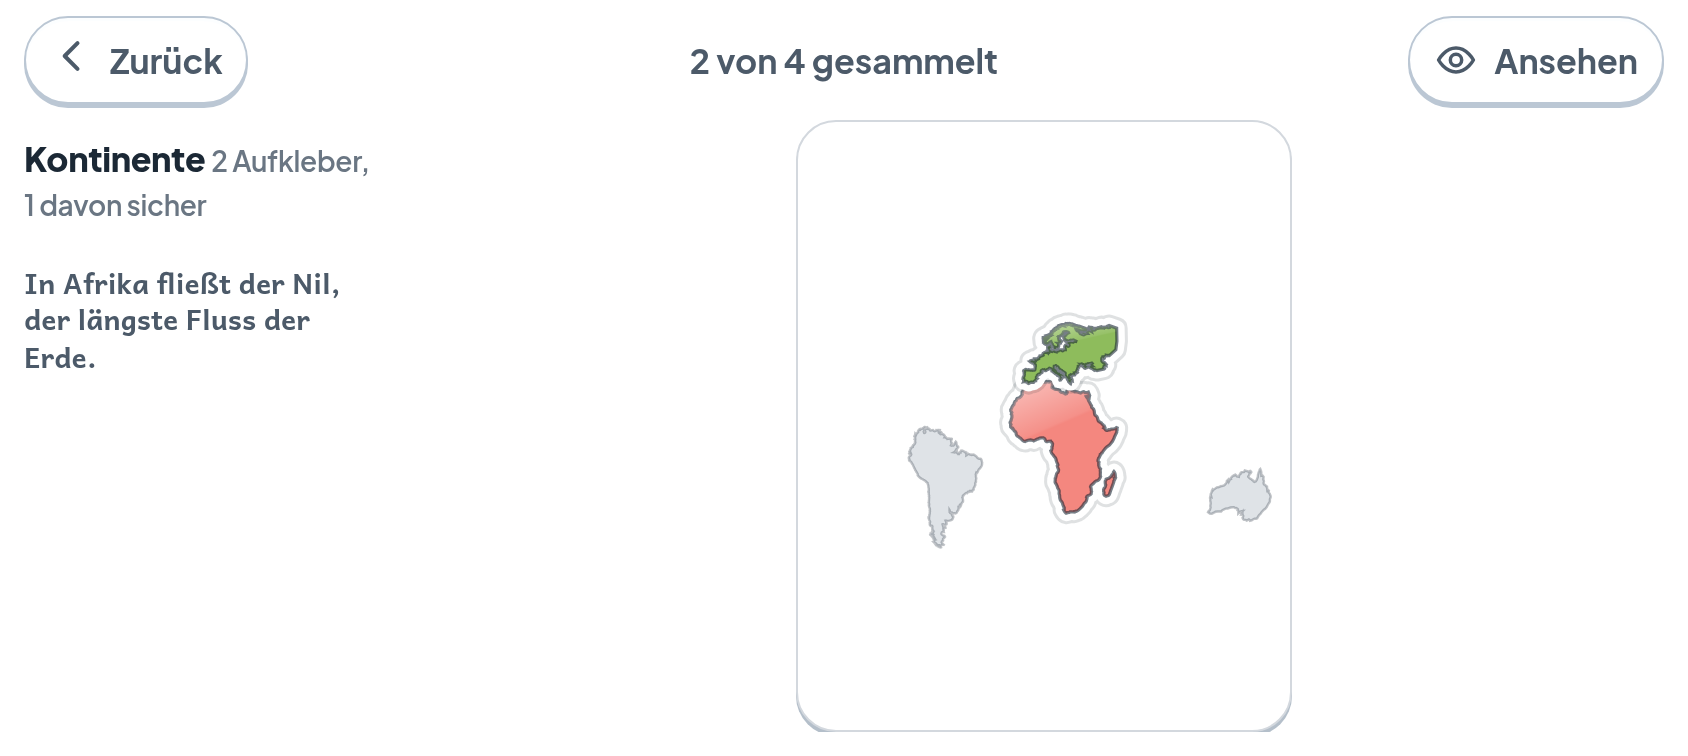
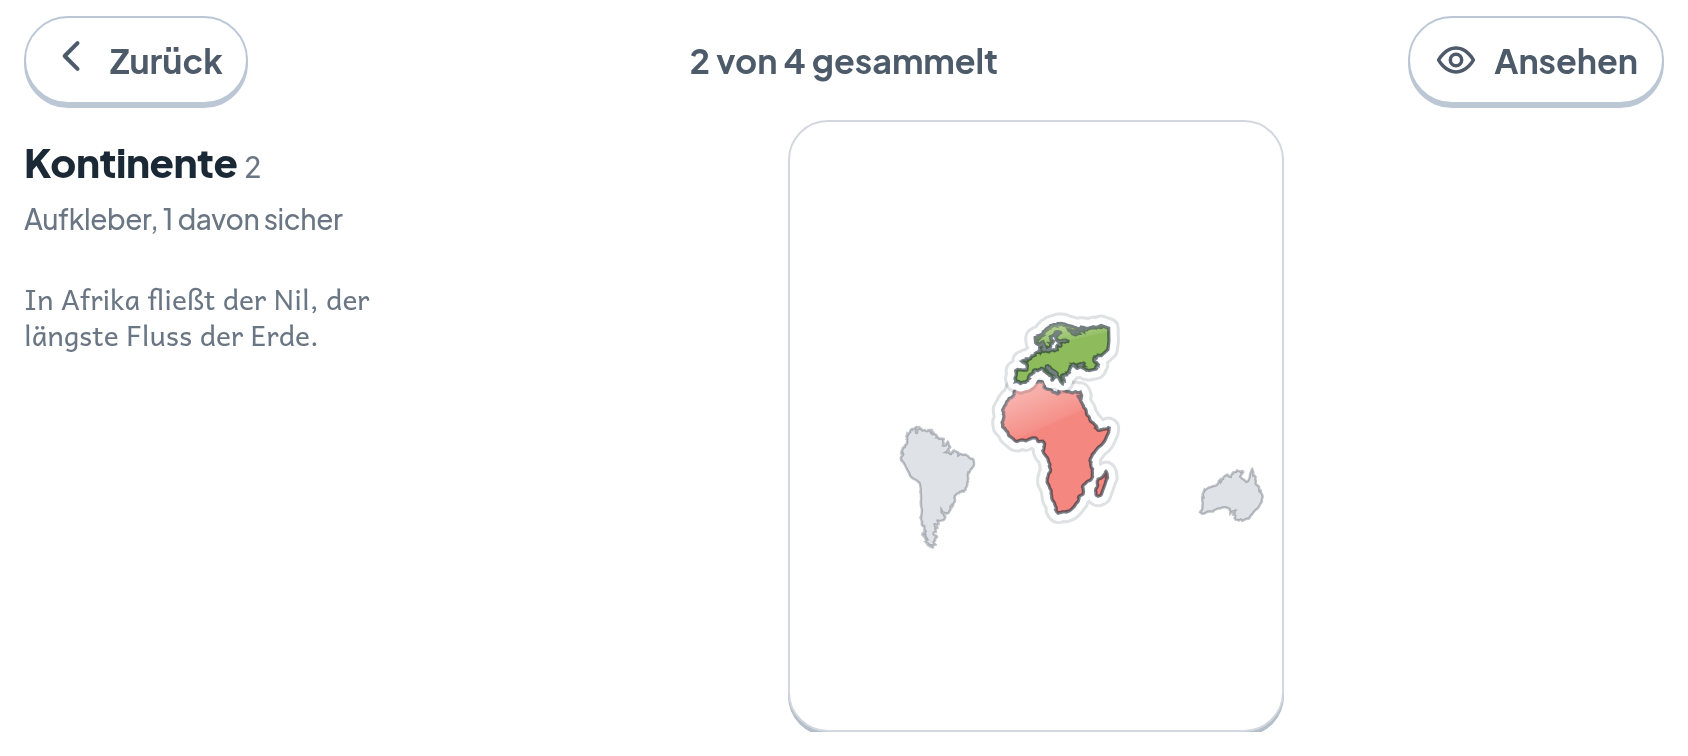
Runde 0 zu Ende: die Tonleiter greift, und sie hat einen Fehler gemacht
Die drei Rollen und die drei Abstaende standen schon; was fehlte, war
der letzte Wert neben der Leiter und der Preis, den die Leiter im
Tierkapitel gekostet hat.

Der letzte Streuwert. Die Eckzahl (`.abz .fehlt`) trug `padding:0
var(--r1)` - eine feste Zahl, gemessen 4 Punkte an drei Stellen. Sie
haengt jetzt an `--eng`. Damit zaehlt das Tor drei Abstaende: 2, 8, 12
auf 844 x 390 - und das sind genau ENG, MITTEL und WEIT, keine
Zufallszahlen.

Der Preis. Der Tiername sass auf .72 der kleinen Groesse, mit einer
gemessenen Begruendung im Quelltext. Die NAMEN-Rolle hat ihn auf volle
Groesse gehoben, und „Streifenhoernchen" brach in DREI Zeilen, die
letzte mit einem einzelnen „n". Gemessen an allen langen Namen: ab 74
Punkten (kurz) und 98 (lang) sind es wieder zwei - die Karte wird
dadurch sogar niedriger, weil die dritte Zeile wegfaellt.

Aufgefallen ist das nur, weil dieses eine Tier zufaellig auf einem
Vorbild stand: von 124 Namen stehen drei im Bild. Deshalb misst
`tonleiter` das jetzt selbst - es beschriftet eine sichtbare Karte der
Reihe nach mit JEDEM Namen und zaehlt die Zeilen. Das faengt beides:
eine zu schmale Karte und ein zu langes neues Tier.

Vier Gegenproben schlagen an - eine vierte Schriftstufe, ein dritter
Radius, ein Abstand neben der Leiter, eine wieder zu schmale
Aufkleberkarte. Die beiden Buchvorbilder sind erneuert und angesehen;
die anderen 43 kamen unveraendert zurueck.

Kette gruen nach 212 s.
[…]

diff --git a/prototyp/vorlage.html b/prototyp/vorlage.html
@@ -1050,7 +1050,7 @@ body{background:linear-gradient(168deg,var(--grund) 0%,var(--grund-2) 100%);
  * gebackener Verlauf reicht). Das Verblassen der fehlenden Tiere ist die
  * einzige Ausnahme - es trifft NUR das SVG, nicht den Aufkleber, und es
  * steht auf einem Bild, das sich nicht bewegt. */
-.tierfeld{width:92px;flex:none;display:flex;flex-direction:column;align-items:center;
+.tierfeld{width:98px;flex:none;display:flex;flex-direction:column;align-items:center;
   gap:var(--r0);padding:var(--r1) var(--r1) var(--r0);
   border-radius:var(--r4);border:var(--kante-flach) solid var(--papier);
   background:var(--ton,var(--grund-2));box-shadow:var(--schatten-kleber);
@@ -1313,11 +1313,15 @@ body{background:linear-gradient(168deg,var(--grund) 0%,var(--grund-2) 100%);
   .tierraum{margin-bottom:var(--r1)}
   .tierraum h4{margin-bottom:var(--r0)}
   .tierwand{gap:var(--r1)}
-  .tierfeld{width:66px}
-  /* Gemessen auf 390 Punkten: „Schmetterling" ist der laengste Name eines
-     gemalten Tieres und braucht bei .8 noch 68 Punkte - zwei zuviel fuer
-     die 66, die im Aufkleber Platz haben. Bei .72 sind es 62. */
-  .tierfeld span{font-size:calc(var(--s-klein) * .72)}
+  /* 66 waren es, solange der Name hier .72 der kleinen Groesse trug.
+     Die Tonleiter (Runde 0) hebt ihn auf die NAMEN-Rolle - dieselbe
+     Groesse wie ueberall sonst im Buch - und damit passte
+     „Streifenhoernchen" nicht mehr in zwei Zeilen, sondern brach in
+     drei, mit einem einzelnen „n" auf der letzten. Gemessen an allen
+     Tiernamen: ab 74 Punkten sind es wieder zwei (`npm run tonleiter`
+     prueft das jetzt an JEDEM Namen, nicht an dem, der gerade
+     dasteht). */
+  .tierfeld{width:74px}
   .tierfeld{padding:var(--r0)}
   /* Und das Tierbild von 58 auf 44 Punkte.
      Gemessen nach dem Buch-Umbau: 241 Punkte Inhalt in einem 224 hohen
@@ -3094,7 +3098,12 @@ code{font-family:ui-monospace,monospace;font-size:.9em;background:var(--linie);
   --eng:var(--r2); --mittel:var(--r4); --weit:var(--r6);
 }
 @media (max-height:440px){
-  .schirm{ --eng:var(--r1); --mittel:var(--r2); --weit:var(--r4); }
+  /* ENG rueckt hier auf `--r0`, die kleinste Sprosse, die es laut Marken
+     geben darf - nicht auf einen ausgedachten Wert. Gemessen: mit
+     `--r1` stand das Tierkapitel auf 667 x 375 vierundzwanzig Punkte
+     unter dem Rand. Drei Sprossen statt zwei sind immer noch die
+     Leiter; ein `calc` waere es nicht. */
+  .schirm{ --eng:var(--r0); --mittel:var(--r2); --weit:var(--r4); }
 }
 /* TITEL */
 .rollen.buch .gruppe,
@@ -3135,14 +3144,17 @@ code{font-family:ui-monospace,monospace;font-size:.9em;background:var(--linie);
 .rollen.buch .tierwand{gap:var(--eng)}
 .rollen.buch .raumwahl{gap:var(--eng);margin-bottom:var(--eng)}
 .buchreiter{gap:var(--eng)}
-/* Die letzten Zweier: Raumreiter und Tuer trugen `--r0`, den Wert, der
-   laut Marken „die kleinste Stufe ist, die es geben darf". Im Buch gibt
-   es sie jetzt nicht mehr - ENG ist auf kurzen Schirmen 4, und das ist
-   eine Sprosse der Leiter statt eines Sonderfalls. */
+/* Die letzten Einzelwerte. `--r0` und `--r1` standen hier als feste
+   Zahlen, weil sie einmal gepasst haben - nicht, weil sie eine Sprosse
+   waeren. Sie sind es jetzt: ENG ist `--r2`, auf kurzen Schirmen `--r0`,
+   und beides kommt aus derselben Leiter. */
 .rollen.buch .raumchip{padding:var(--eng);gap:var(--eng)}
 .rollen.buch .raumauf{padding:var(--eng) var(--mittel);gap:var(--mittel)}
 .rollen.buch .tierfeld{padding:var(--eng);gap:var(--eng)}
 .rollen.buch .abz{padding:var(--mittel);gap:var(--eng)}
+/* Die Eckzahl trug `padding:0 var(--r1)` - der eine Wert, der nach der
+   Tonleiter noch neben der Leiter stand (gemessen 4 an drei Stellen). */
+.rollen.buch .abz .fehlt{padding:0 var(--eng)}
 @media (min-aspect-ratio:8/5){
   .buchseite{column-gap:var(--weit);row-gap:0}
 }

diff --git a/docs/Lernkiste-BUCH-AUDIT-2.md b/docs/Lernkiste-BUCH-AUDIT-2.md
@@ -208,7 +208,7 @@ wirklich Gestaltung sind und nicht Ordnung:
 | **B6** Zahlen zählen in verschiedene Richtungen | **erledigt**: „Als Nächstes" trägt keine Zahl mehr, und das Tor sieht am Kapitel nach |
 | **B7** Kein Kapitel zeigt, was fehlt | **erledigt** für die Reiter (`da/gesamt`) |
 | **B8** Der Merksatz hat keinen Ort | **erledigt**: er steht in der linken Spalte |
-| **C1/C2** Alles fett, kein großer Abstand | **offen** — die Tonleiter ist als Runde 0 geplant und noch nicht gefahren |
+| **C1/C2** Alles fett, kein großer Abstand | **erledigt** (Runde 0): drei Schriftrollen (Titel · Name · Fuss), zwei Radien, drei Abstände — mit dem Tor `tonleiter` und drei Gegenproben. Gemessen an fünf Kapitelseiten auf 844 × 390. |
 | **C3** Zwanzig Schatten, die nichts tun | **zurückgezogen, der Befund war falsch.** Der Schatten `0px 0px 0px 0px` ist der RUHEZUSTAND eines Übergangs: `.reiter` hat ihn flach, `.reiter.da` mit Versatz, und dazwischen wird geblendet. Ich hatte die Rolle nicht geprüft, bevor ich ihn „tot" genannt habe. |
 | **C4** Drei Farben umgehen die Marken | **offen**, und mit Ansage: die Aufklebertöne gehören zum Tier |
 | **C5** Sieben Klassen kommen einmal vor | **offen** |
@@ -234,6 +234,37 @@ danach eine Zelle baut, hat nichts mehr zu entscheiden.
 Dazu die Ratsche, die es messbar hält: **höchstens 3 Schriftstufen,
 höchstens 2 Radien, höchstens 5 Abstandswerte im Buch** — gemessen von
 `buch-feinmass`, das dafür ein Tor wird.
+
+**Gefahren, und strenger geworden als geplant** (v420). Es sind drei
+Abstände geworden, nicht fünf: `--eng`, `--mittel`, `--weit`, alle drei
+aus der Rasterleiter der Marken und alle drei mit einer eigenen Sprosse
+im kurzen Querformat. Das Tor steht als `tonleiter` in der Kette und
+sagt: *3 Schriftstufen, 2 Radien, 3 Abstände im Buch — gemessen an fünf
+Kapitelseiten auf 844 × 390.*
+
+Drei Dinge, die dabei herausgekommen sind und ohne die Messung nicht
+aufgefallen wären:
+
+* **Die Marken standen auf dem falschen Kasten.** `--t-titel` und
+  Geschwister lagen zuerst auf `.rollen.buch` — die Reiterzeile
+  `.buchreiter` ist aber ein **Geschwister**, kein Kind. Dort war jede
+  `var()` undefiniert, und eine ungültige Deklaration macht die ganze
+  Regel wirkungslos (Marken, Zeile 15, derselbe Fehler wie damals bei
+  `--r5`). Gemessen: **neun** Schrift-Kombinationen statt drei. Die
+  Marken sitzen jetzt auf `.schirm`, den beide unter sich haben.
+* **Die Reihenfolge im Stylesheet zählt.** Der Block stand *vor* den
+  Kurzformat-Medienabfragen des Buches. Gleiche Spezifität — die spätere
+  Regel gewinnt, und die Tonleiter verlor gegen sich selbst. Er steht
+  jetzt am Ende.
+* **Die erste Gegenprobe bewies nichts.** Sie setzte die ganze Fussnote
+  kleiner und änderte damit nur den *Wert* einer Stufe, nicht ihre
+  *Zahl*: aus 14/400 wurde 11/400, es blieben drei. Das Tor blieb zu
+  Recht grün. Sie schert jetzt **einen** der drei Nutzer aus — genau so,
+  wie es wirklich passiert.
+
+Und einen Preis hat es gekostet: die Leiter war auf 667 × 375 vierundzwanzig
+Punkte zu hoch. `--eng` rückt dort auf die kleinste Sprosse (`--r0`), und
+`passt` ist wieder grün.
 
 Danach unverändert:
 

diff --git a/CLAUDE.md b/CLAUDE.md
@@ -206,6 +206,15 @@ npm run dienstprobe -- <adresse>   spricht der AUFGESETZTE Dienst das
 npm run zweigeraete  zwei Browser-Kontexte, ein echter Dienst — die eine
                    Naht, die kein Tor bewacht. Braucht einen Bau mit
                    SMARTKIDS_GLEICHLAUF; siehe den Kopf des Werkzeugs.
+npm run tonleiter  die Ratsche des Forscherbuchs: hoechstens 3
+                   Schriftstufen, 2 Radien, 3 Abstaende - gemessen an
+                   fuenf Kapitelseiten auf 844 x 390. Dazu die zweite
+                   Zusage: JEDER der 124 Tiernamen passt in zwei Zeilen
+                   seiner Aufkleberkarte - nicht nur die drei, die
+                   gerade im Bild stehen. Ohne `--tor` zeigt
+                   `node tools/buch-feinmass.mjs` dieselbe Messung im
+                   Ganzen: Farben, Schatten, Fluchtlinien, Bildanteil,
+                   Griffe unter 44 pt und was ohne Ansage bleibt.
 npm run ohneschrift  AUDIT A: geht Fionas Weg auf dem Zielgerät ab und
                    zählt, was ihr NICHTS sagt — kein Bild, keine Ziffer,
                    keine Stimme. Schreibt dazu Aufnahmen nach `blick/`,
